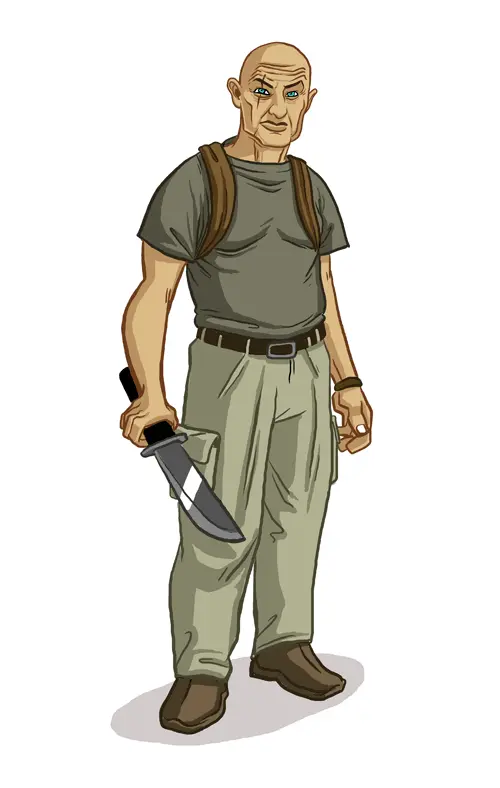
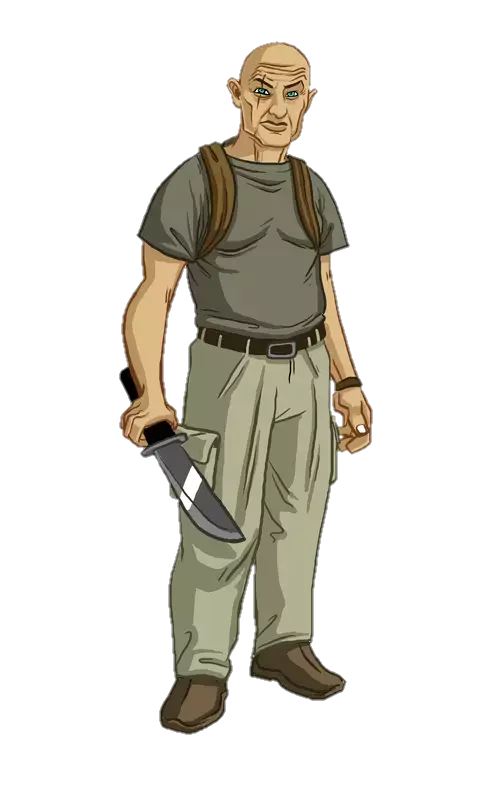
bg white

diff --git a/src/app/pages/error404/error404.component.scss b/src/app/pages/error404/error404.component.scss
@@ -1,6 +1,7 @@
 @import "../../../styles.scss";
 
 main {
+    background-color: white;
     padding: 5% 10%;
     height: 100vh;
 
@@ -21,13 +22,11 @@ main {
 
         .code {
             h1 {
-                // font-size: 10rem;
                 color: $aqua;
                 text-align: center;
             }
         
             h2 {
-                // font-size: 2rem;
                 color: $grey-sand;
                 text-align: center;
             }
@@ -42,6 +41,51 @@ main {
 
             p {
                 font-size: 1.5rem;
+            }
+
+            button {
+                cursor: pointer;
+                font-family: $font-text;
+                font-size: 1rem;
+            
+                @include glassmorphism();
+                background-color: rgba(2, 118, 131, 0.25);
+                border: 1px solid rgba(2, 51, 62, 0.3);
+                color: $ocean;
+                overflow: hidden;
+            
+                width: 120px;
+                height: 60px;
+            
+                display: flex;
+                justify-content: center;
+                align-items: center;
+                position: relative;
+            
+                transition: linear 0.3s;
+            
+                &:is(:hover,:focus) {
+                    color: white;
+                    transform: translateY(-10px);
+                }
+                  
+                &::after {
+                    background-color: rgba(2, 51, 62, 0.25);
+                    content: '';
+            
+                    position: absolute;
+                    inset: 0;
+                    z-index: -1;
+            
+                    transform-origin: left;
+                    transform: scaleX(0);
+            
+                    transition: linear 0.3s;
+                }
+                  
+                &:is(:hover, :focus)::after {
+                    transform: scaleX(1);
+                }
             }
         }
     }

diff --git a/src/app/pages/error404/error404.component.html b/src/app/pages/error404/error404.component.html
@@ -1,6 +1,6 @@
 <main [ngClass]="{'is-mobile': isMobile}">
     <div class="img">
-        <img src="../../../assets/img/404/locke.webp" alt="Dibujo de John Lock (Lost)">
+        <img src="../../../assets/img/404/locke.gif" alt="Dibujo de John Lock (Lost)">
     </div>
     <div class="msg">
         <div class="code">
@@ -10,7 +10,8 @@
         </div>
         <div class="return">
             <p>¿Te has perdido?</p>
-            <app-button routerLink="/" [text]="'Inicio'"></app-button>
+            <!-- <app-button routerLink="/" [text]="'Inicio'"></app-button> -->
+            <button routerLink="/">Inicio</button>
         </div>
     </div>
 </main>
